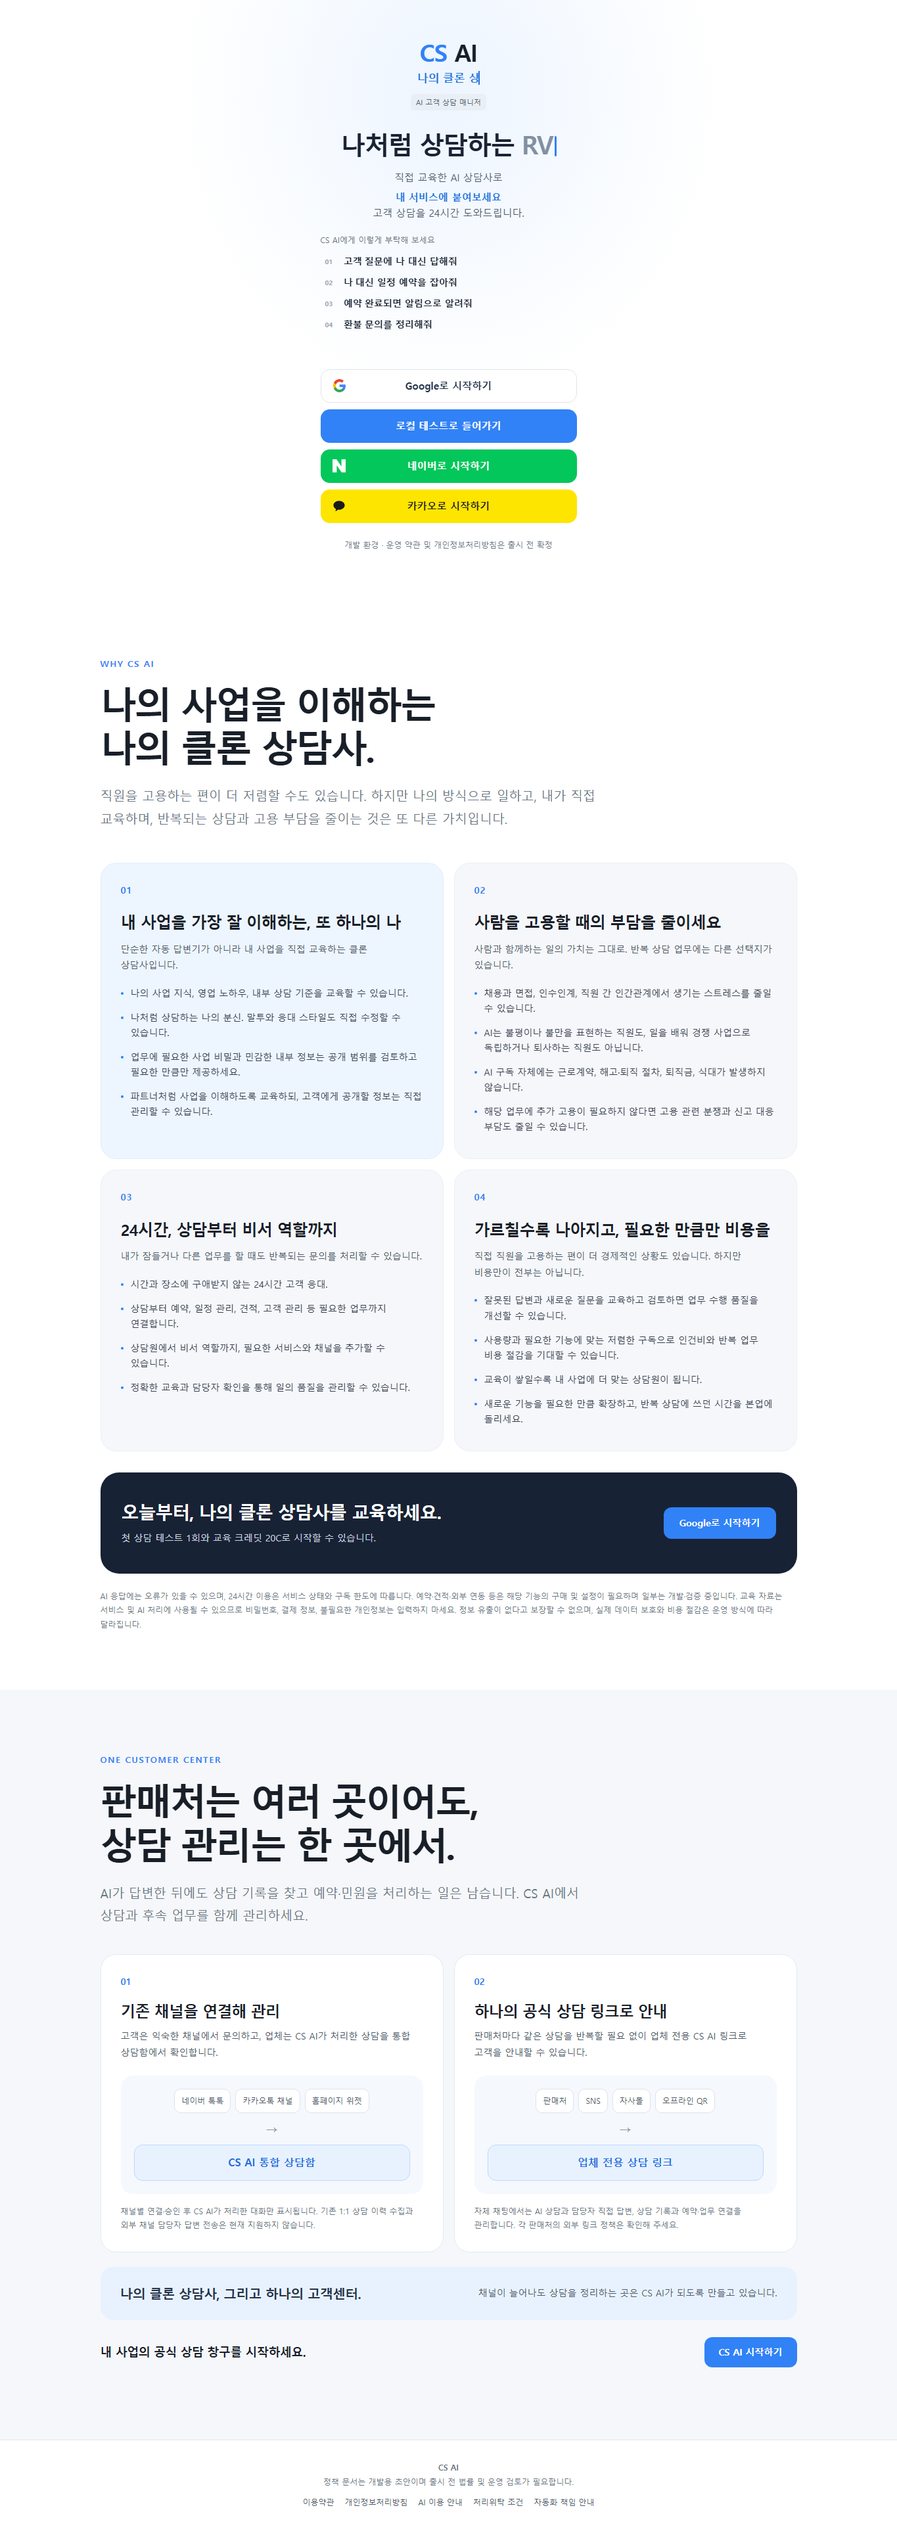
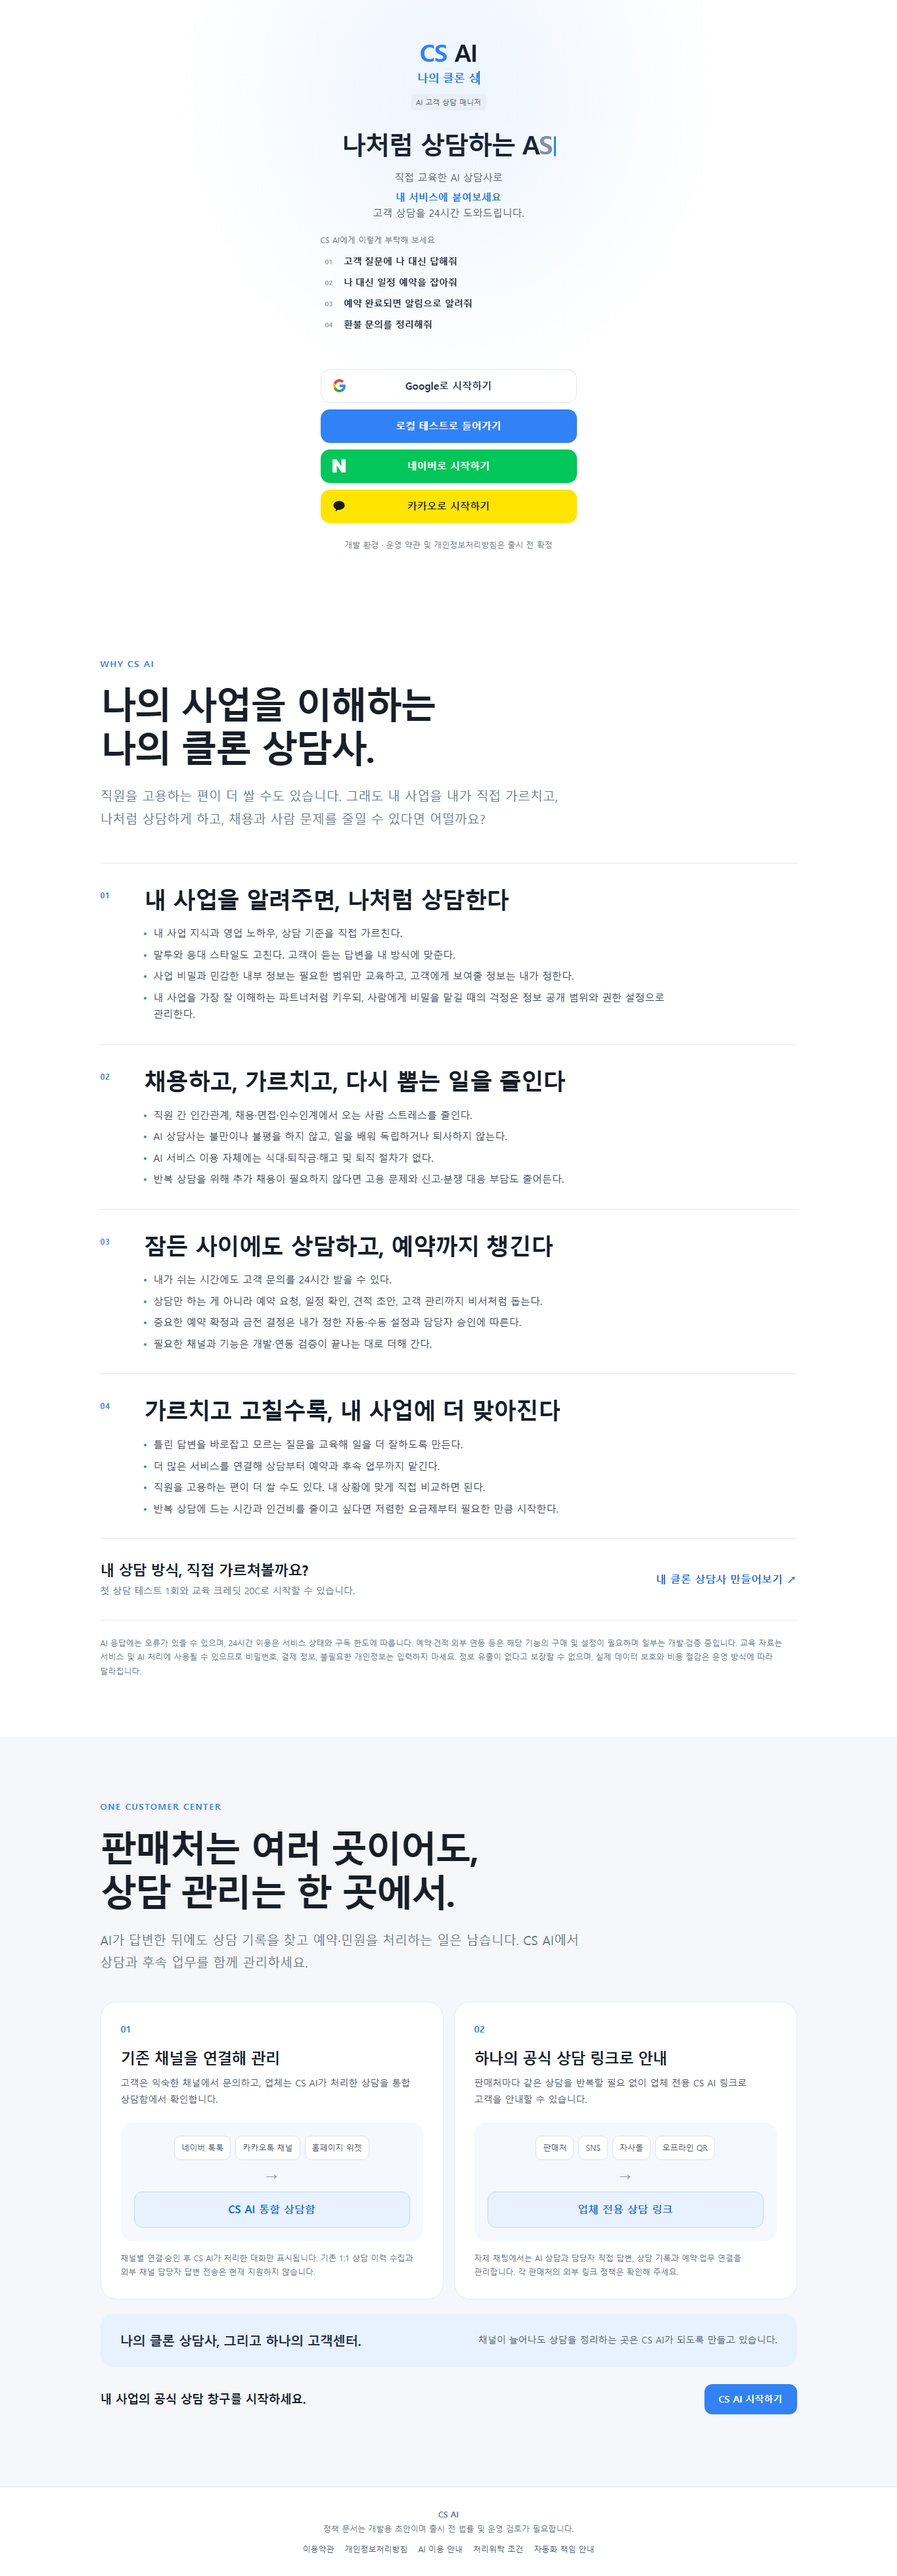
feat: present clone advisor benefits as rolling list

diff --git a/web/roll-links.js b/web/roll-links.js
@@ -60,6 +60,72 @@
     }
     requestAnimationFrame(frame);
   }
-  new MutationObserver(mount).observe(document.getElementById('app'), { childList: true });
-  mount();
+  let benefitsActive = null;
+  function mountBenefits() {
+    const grid = document.querySelector('.landing-benefit-grid');
+    if (!grid || grid === benefitsActive) return;
+    benefitsActive = grid;
+    const entries = [...grid.querySelectorAll('.landing-benefit')].map(article => {
+      const title = article.querySelector('.landing-roll-title');
+      const label = title.textContent;
+      title.textContent = '';
+      title.setAttribute('aria-label', label);
+      title.tabIndex = 0;
+      const letters = document.createElement('span');
+      letters.className = 'roll-letters';
+      letters.setAttribute('aria-hidden', 'true');
+      const cells = [...label].map(ch => {
+        const shell = document.createElement('span'); shell.className = 'roll-letter';
+        const inner = document.createElement('span'); inner.className = 'roll-letter-inner';
+        for (let i = 0; i < 2; i++) { const glyph = document.createElement('i'); glyph.textContent = ch; inner.append(glyph); }
+        shell.append(inner); letters.append(shell);
+        return { inner, s: spring(), at: 0 };
+      });
+      title.append(letters);
+      return { article, title, cells, on: false };
+    });
+    let pointer = false, visible = false, auto = 0, autoAt = performance.now() + 800, last = performance.now();
+    if ('IntersectionObserver' in window) {
+      const observer = new IntersectionObserver(events => {
+        visible = events[0].isIntersecting;
+        if (visible) autoAt = performance.now() + 800;
+        else {
+          grid.classList.remove('hot');
+          entries.forEach(item => {
+            item.on = false; item.article.classList.remove('on');
+            item.cells.forEach(cell => { cell.s.x = 0; cell.s.v = 0; cell.s.t = 0; });
+          });
+        }
+      }, { threshold: 0.12 });
+      observer.observe(grid);
+    } else visible = true;
+    function select(entry) {
+      const now = performance.now();
+      entries.forEach(item => {
+        item.on = item === entry;
+        item.article.classList.toggle('on', item.on);
+        item.cells.forEach((cell, i) => { cell.at = now + i * 30; cell.s.t = item.on ? 1 : 0; });
+      });
+      grid.classList.add('hot');
+    }
+    entries.forEach(entry => {
+      entry.article.addEventListener('pointerenter', () => { pointer = true; select(entry); });
+      entry.title.addEventListener('focus', () => { pointer = true; select(entry); });
+      entry.title.addEventListener('blur', () => { pointer = false; autoAt = performance.now() + 900; });
+      entry.title.addEventListener('click', () => { select(entry); autoAt = performance.now() + 1800; });
+    });
+    grid.addEventListener('pointerleave', () => { pointer = false; autoAt = performance.now() + 900; });
+    function frame(now) {
+      if (!grid.isConnected) return;
+      const dt = Math.min((now - last) / 1000, 1 / 30); last = now;
+      if (visible && !pointer && now >= autoAt) { select(entries[auto]); auto = (auto + 1) % entries.length; autoAt = now + 1450; }
+      if (visible && !reduced.matches) for (let k = 0; k < 4; k++) entries.forEach(item => item.cells.forEach(cell => { if (now >= cell.at) step(cell.s, dt / 4); }));
+      entries.forEach(item => item.cells.forEach(cell => { cell.inner.style.transform = `translateY(${-cell.s.x * 50}%)`; }));
+      requestAnimationFrame(frame);
+    }
+    requestAnimationFrame(frame);
+  }
+  const mountAll = () => { mount(); mountBenefits(); };
+  new MutationObserver(mountAll).observe(document.getElementById('app'), { childList: true, subtree: true });
+  mountAll();
 })();

diff --git a/web/landing.css b/web/landing.css
@@ -39,3 +39,28 @@
 .unify-cta{display:flex;justify-content:space-between;align-items:center;gap:16px;flex-wrap:wrap;padding:26px 0 0}.unify-cta span{font-size:18px;font-weight:700;letter-spacing:-.03em}.unify-cta button{min-height:46px;padding:12px 22px}
 @media(max-width:700px){.landing-unify{padding:64px 18px 72px}.unify-paths{grid-template-columns:1fr}.unify-path{padding:24px;border-radius:20px}.unify-path h3{font-size:21px}.unify-summary{padding:22px}.unify-summary strong{font-size:18px}}
 @media(max-width:700px){.unify-cta button{width:100%}}
+
+/* The reasons read as an editorial list; the Roll Links motion lives in the headings. */
+.landing-benefit-grid{display:block;border-top:1px solid #e5e8eb}
+.landing-benefit,.landing-benefit:nth-child(1){display:grid;grid-template-columns:54px minmax(0,1fr);gap:12px;background:transparent;border:0;border-bottom:1px solid #e5e8eb;border-radius:0;padding:32px 0}
+.landing-benefit-number{margin:7px 0 0;font-size:12px}
+.landing-benefit-content{min-width:0}
+.landing-benefit h3{font-size:clamp(25px,3vw,35px);line-height:1.28;margin:0 0 18px;cursor:default}
+.landing-benefit ul{display:grid;grid-template-columns:1fr;gap:7px;max-width:850px}
+.landing-benefit li{padding:0 0 0 15px;color:#394150;font-size:15px;line-height:1.7}
+.landing-benefit li:before{top:11px;width:4px;height:4px}
+.landing-benefit .roll-letters{display:inline-flex;white-space:pre-wrap;flex-wrap:wrap}
+.landing-benefit .roll-letter{display:inline-block;height:1.28em;overflow:hidden;white-space:pre}
+.landing-benefit .roll-letter-inner{display:flex;flex-direction:column;will-change:transform}
+.landing-benefit .roll-letter-inner i{height:1.28em;font-style:normal}
+.landing-benefit-grid.hot .landing-benefit h3{color:#8b95a1}
+.landing-benefit-grid.hot .landing-benefit.on h3{color:#236fde}
+.landing-benefits-cta{background:transparent;color:#191f28;border-radius:0;border-bottom:1px solid #e5e8eb;margin-top:0;padding:32px 0;gap:16px}
+.landing-benefits-cta h3{font-size:22px;margin:0 0 4px}
+.landing-benefits-cta p{color:#6b7684}
+.landing-benefits-cta button{background:transparent;color:#236fde;border:0;padding:8px 0;border-radius:0;font-size:16px;white-space:nowrap}
+.landing-benefits-cta button:hover{text-decoration:underline}
+.landing-benefits-cta button span{display:inline-block;transition:transform .18s ease}
+.landing-benefits-cta button:hover span{transform:translate(3px,-3px)}
+@media(max-width:700px){.landing-benefit,.landing-benefit:nth-child(1){grid-template-columns:1fr;gap:2px;padding:26px 0}.landing-benefit-number{margin:0 0 8px}.landing-benefit ul{grid-template-columns:1fr;gap:9px}.landing-benefit h3{font-size:25px}.landing-benefits-cta{padding:28px 0}.landing-benefits-cta button{width:auto;text-align:left}}
+@media(prefers-reduced-motion:reduce){.landing-benefit .roll-letter-inner{transform:none!important}.landing-benefit-grid.hot .landing-benefit h3{color:inherit}.landing-benefits-cta button span{transition:none}}

diff --git a/tests/live_ui_smoke.py b/tests/live_ui_smoke.py
@@ -17,10 +17,15 @@ with sync_playwright() as pw:
     desktop.on("pageerror", lambda exc: errors.append(str(exc)))
     desktop.goto(BASE, wait_until="networkidle")
     assert desktop.locator(".landing-benefit").count() == 4
+    assert desktop.locator(".landing-roll-title .roll-letter-inner").count() > 40
+    desktop.screenshot(path=str(OUT / "live_landing_desktop.png"), full_page=True)
+    desktop.locator(".landing-benefit").nth(1).hover()
+    desktop.wait_for_function("document.querySelector('.landing-benefit:nth-child(2) .roll-letter-inner').style.transform !== 'translateY(0%)'")
+    assert desktop.get_by_text("퇴직금·해고 및 퇴직 절차").count() == 1
+    assert "직원을 고용하는 편이 더 쌀 수도 있습니다." in desktop.locator(".landing-benefits .landing-lead").inner_text()
     assert desktop.locator(".unify-path").count() == 2
     desktop.locator(".unify-cta button").wait_for()
     desktop.locator(".landing-benefits-cta button").wait_for()
-    desktop.screenshot(path=str(OUT / "live_landing_desktop.png"), full_page=True)
     desktop.goto(BASE + "/auth/demo", wait_until="networkidle")
     desktop.get_by_role("heading", name="서비스 정책 확인").wait_for()
     desktop.screenshot(path=str(OUT / "live_policy_desktop.png"), full_page=True)
@@ -74,6 +79,7 @@ with sync_playwright() as pw:
     mobile.on("pageerror", lambda exc: errors.append(str(exc)))
     mobile.goto(BASE, wait_until="networkidle")
     assert mobile.locator(".landing-benefit").count() == 4
+    assert mobile.locator(".landing-roll-title").count() == 4
     assert mobile.locator(".unify-path").count() == 2
     assert mobile.locator(".unify-cta button").is_visible()
     assert mobile.evaluate("document.documentElement.scrollWidth <= innerWidth")

diff --git a/FEATURE_CHECKLIST.md b/FEATURE_CHECKLIST.md
@@ -79,4 +79,6 @@
 
 2026-11-26 추가 연동 기획 목록: 추가 기능 요금표 아래에 회원정보 연동·Instagram DM·이메일 수신/답변·LINE·Telegram·Facebook Messenger·Android/iOS SDK·전화·WeChat·AI 전화 상담을 개발 예정, 우선순위, 요금 미정으로 표시했습니다. 기존 유료 옵션·패키지 가격과 권한 목록에는 넣지 않아 구매나 실제 연결이 되지 않습니다. 외부 채널의 공식 권한·실계정 연동 검증은 아직 하지 않았습니다. 전체 Python 테스트 80개 및 PC·모바일 브라우저 검수 통과.
 
+2026-11-26 랜딩 장점 영역 개편: 01~04 카드형 배열을 번호가 붙은 전체 너비 목록으로 변경했습니다. 사업 비밀·말투·고용·인간관계·식대·퇴직금·퇴사·독립·24시간 상담·예약 비서·교육에 따른 개선·비용 비교 등 요청한 주제를 모두 반영했습니다. Roll Links 원본의 글자별 스프링 강성 380/감쇠 24와 30ms 순차 움직임을 제목에 적용했고, 화면에 들어왔을 때만 자동 순환하며 움직임 줄이기 설정을 지원합니다. 하단 시작 버튼은 간결한 텍스트 동작으로 변경했습니다. 효과와 비용 절감은 보장으로 표현하지 않았습니다.
+
 추가 안정화: 예약 관리자 등록·변경·취소·완료 알림 및 수동 상담 첫 문의 알림 추가. 실제 이메일은 확인된 Google 계정 주소만 허용하며 개발 모드에서는 모의 발송. 워커 서비스별 오류를 분리해 다른 자동 작업이 계속 실행되도록 변경. 회귀 테스트를 추가했으나 전체 실행 결과는 아직 검증하지 못했습니다.
